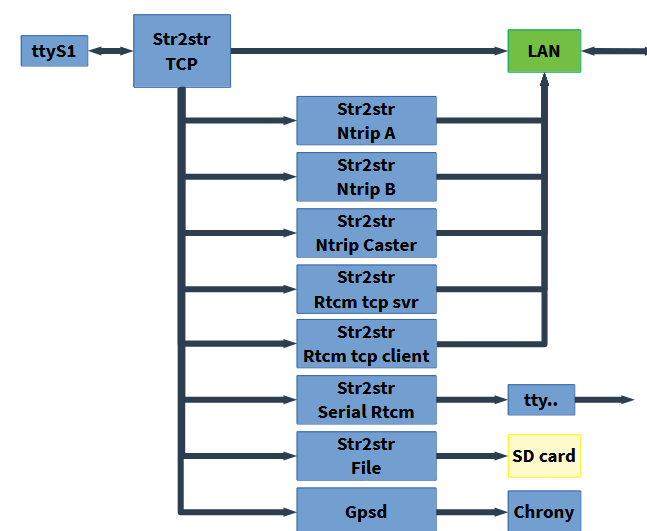
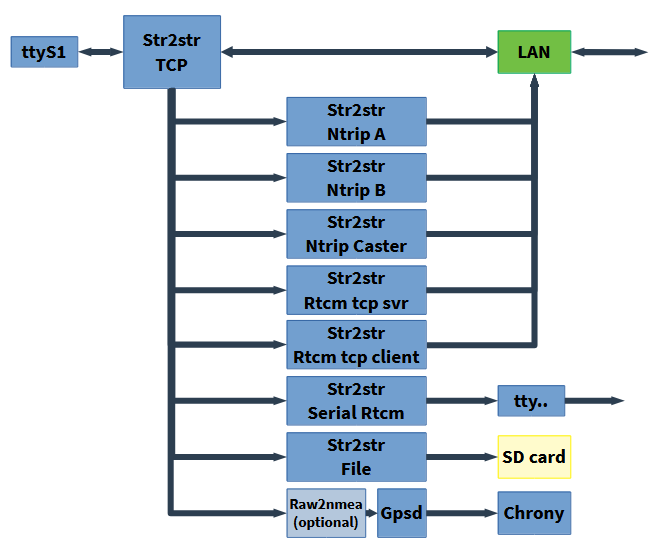
update readme

Changed region(s): [[0.0, 0.0301, 1.0, 1.0]]

diff --git a/README.md b/README.md
@@ -27,7 +27,7 @@ Frontend's main features are:
 Other images are available in the ./images folder.
 
 ## Ready to flash release:
-A ready to flash image is available for Orange Pi Zero SBC : [Armbian_RTKBase](https://github.com/Stefal/build/releases/latest)
+A ready to flash image is available for Orange Pi Zero, Orange Pi Zero 2, Orange Pi Zero 3 SBC : [Armbian_RTKBase](https://github.com/Stefal/build/releases/latest)
 
 If you use a Raspberry Pi, thanks to [jancelin](https://github.com/jancelin), you can download a ready to flash iso file [here](https://github.com/jancelin/pi-gen/releases/latest).
 
@@ -126,7 +126,9 @@ The `install.sh` script can be used without the `--all` option to split the inst
             -h | --help
                               Display this help message.
    ```
+
 So, if you really want it, let's go for a manual installation with some explanations:
+
 1. Install dependencies with `sudo ./install.sh --dependencies`, or do it manually with:
    ```bash
     sudo apt update
@@ -138,7 +140,7 @@ So, if you really want it, let's go for a manual installation with some explanat
 
       ```bash
       cd ~
-      wget -qO - https://github.com/rtklibexplorer/RTKLIB/archive/refs/tags/b34g.tar.gz | tar -xvz
+      wget -qO - https://github.com/rtklibexplorer/RTKLIB/archive/refs/tags/b34j.tar.gz | tar -xvz
       ```
 
    + compile and install str2str:
@@ -264,6 +266,8 @@ RTKBase use several RTKLIB `str2str` instances started with `run_cast.sh` as sys
 The web GUI is available when the `rtkbase_web` service is running.
 
 ## Advanced:
++ Offline base station without U-Blox receiver, how to get date and time:
+If gpsd can't understand the raw data from your gnss receiver, you can enable the raw2nmea service. It will convert the raw data to the tcp port set in `settings.conf` (nmea_port) and gpsd will use it to feed chrony. `systemctl enable --now rtkbase_raw2nmea`
 + Aerial images:
 The default map background is OpenStreetMap, but you can switch to a worldwide aerial layer if you have a Maptiler key. To enable this layer, create a free account on [Maptiler](https://www.maptiler.com/), create a key and add it to `settings.conf` inside the `[general]` section:
 `maptiler_key=your_key`
@@ -276,7 +280,7 @@ If you want to install RTKBase from the dev branch, you can do it with these com
 cd ~
 wget https://raw.githubusercontent.com/Stefal/rtkbase/dev/tools/install.sh -O install.sh
 chmod +x install.sh
-sudo ./install.sh --alldev dev
+sudo ./install.sh --all repo --rtkbase-repo dev
 ```
 
 ## Other usages:
@@ -296,7 +300,7 @@ A gnss receiver with a timepulse output is a very accurate [stratum 0](https://e
 
 + Set gpsd and chrony to use PPS
 
-   + gpsd: comment the `DEVICE` line in `/etc/defaut/gpsd` and uncomment `#DEVICES="tcp:\\127.0.0.1:5015 \dev\pps0`
+   + gpsd: comment the `DEVICE` line in `/etc/defaut/gpsd` and uncomment `#DEVICES="tcp:\\127.0.0.1:5015 \dev\pps0`. Edit the port if you use the rtkbase_raw2nmea service.
 
    + chrony: inside `/etc/chrony/chrony.conf` uncomment the refclock pps line  and add noselect to the 'refclock SHM 0`. You should have something like this:
    ```
